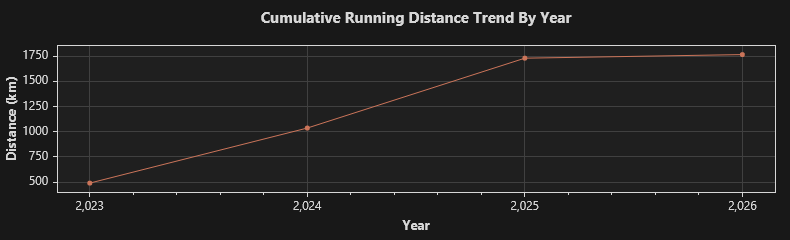
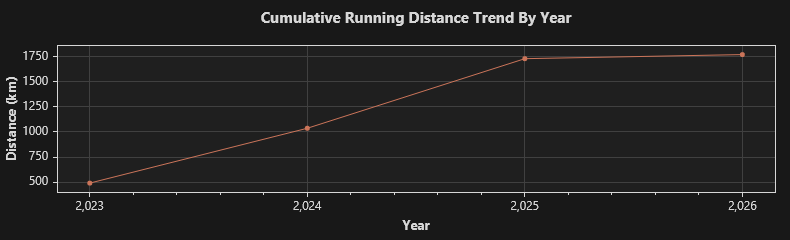
2026/1/28 跑步 5.11 公里

diff --git a/trend.md b/trend.md
@@ -1,4 +1,4 @@
-### Total: 298 days, 1764.25 km.
+### Total: 299 days, 1769.36 km.
 
 
 ![Monthly](https://github.com/prime167/MyRunningLog/blob/main/data/CumulativeTrendByMonth.png)
